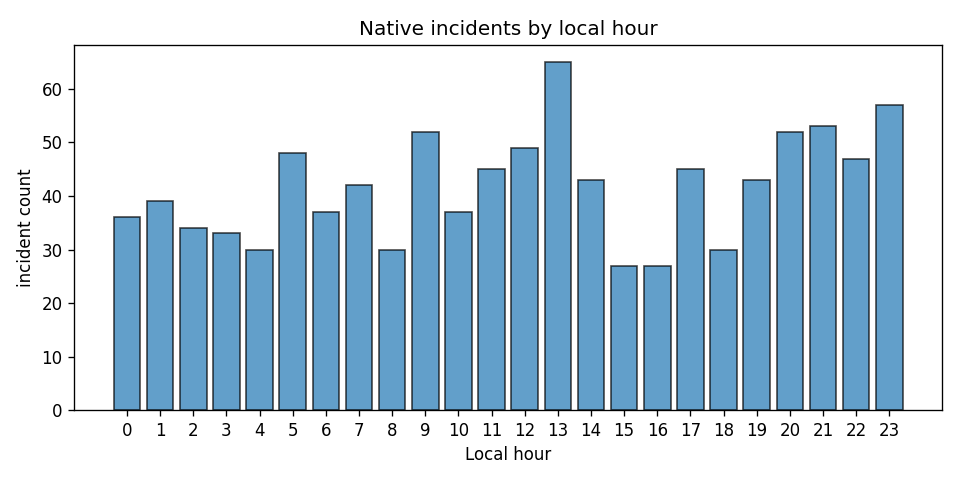
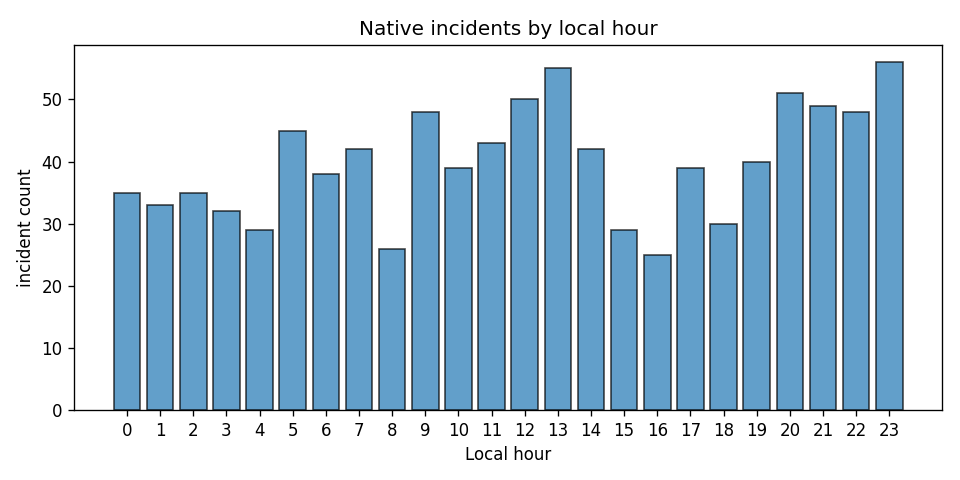
Restore rain hazard floor

diff --git a/scripts/evaluate.py b/scripts/evaluate.py
@@ -770,13 +770,14 @@ def calibration_changes_table() -> str:
         "empirical pressure-fall percentile over replay history rather than a "
         "shared z gate. |",
         "| heavy_rain_burst | wet-hour p95/floor -> wet-hour 99.5th training "
-        "amount quantile; dry-hour hurdle unchanged | "
-        "Rain uses the upper tail of wet amounts only, not zero-dominated "
-        "precipitation residuals. |",
+        "amount quantile plus 10 mm hazard floor; dry-hour hurdle and 6h "
+        "accumulation anchor unchanged | Rain uses the upper tail of wet "
+        "amounts only, but flood-style bursts still need an absolute hazard "
+        "floor when the city wet-hour distribution is compressed. |",
         "| wind_gust_burst | fixed gust z 3.2 -> wind-gust residual 99.5th "
         "training quantile; 90 km/h anchor unchanged | "
-        "Gusts are upper-tail hazards, so the gate is metric-specific and "
-        "one-sided. |",
+        "Gusts are upper-tail hazards, and the absolute ECCC-scale anchor "
+        "still fires even when local z is below the empirical quantile. |",
         "| heat_stress | unchanged in DS-2 | This detector is formula-threshold based, not a "
         "`z_hod >= 3` gate. |",
         "| cold_stress | unchanged in DS-2 | This detector is formula-threshold based, not a "
@@ -919,6 +920,41 @@ def _climatology_training_summary() -> str:
     return f"{source}, trained on {start}..{end}"
 
 
+def _empirical_threshold_summary() -> str:
+    try:
+        artifact = json.loads(CLIMATOLOGY_PATH.read_text())
+    except (OSError, json.JSONDecodeError):
+        return "training threshold contrast unavailable"
+    metrics = artifact.get("empirical_thresholds", {}).get("metrics", {})
+    if not isinstance(metrics, dict):
+        return "training threshold contrast unavailable"
+
+    temperature = metrics.get("temperature_2m", {})
+    gust = metrics.get("wind_gusts_10m", {})
+    rain = metrics.get("precipitation", {})
+    temp_upper = _threshold_value(temperature, "upper_z")
+    temp_lower = _threshold_value(temperature, "lower_z")
+    gust_upper = _threshold_value(gust, "upper_z")
+    rain_amount = _threshold_value(rain, "wet_amount_mm")
+    if None in (temp_upper, temp_lower, gust_upper, rain_amount):
+        return "training threshold contrast unavailable"
+
+    return (
+        "Per-metric z-equivalent thresholds expose why the uniform z=3 gate was "
+        f"too blunt: temperature tails are {temp_upper:.2f}/{temp_lower:.2f} z, "
+        f"while gusts require {gust_upper:.2f} z. Rain's wet-hour 99.5th "
+        f"percentile is {rain_amount:.1f} mm/h, below the 10 mm hazard floor, "
+        "so the hazard detector gates on the stricter floor."
+    )
+
+
+def _threshold_value(stats: object, key: str) -> float | None:
+    if not isinstance(stats, dict):
+        return None
+    value = stats.get(key)
+    return None if value is None else float(value)
+
+
 def _native_interpretation(replay: NativeReplay) -> str:
     counts = Counter(event.event_type for event in replay.incidents)
     total = len(replay.incidents)
@@ -993,6 +1029,7 @@ def write_evaluation(
   from that same committed artifact: 99.5th percentile upper tails, 0.5th
   percentile lower tails, and wet-hour-only 99.5th percentile rain amount.
   The quantile level is a fixed rare-tail hypothesis, not tuned to replay rates.
+- {_empirical_threshold_summary()}
 - Readings replayed: **{data.total_readings}** across **{data.total_city_days}**
   city-days.
 - Native replay collapses detector candidates with the same stable dedupe keys,

diff --git a/app/detection/heavy_rain_burst.py b/app/detection/heavy_rain_burst.py
@@ -37,7 +37,10 @@ class HeavyRainBurstDetector:
         if not precip.is_wet:
             return []
 
-        hourly_threshold, threshold_source = _hourly_threshold(climatology, precip)
+        hourly_threshold, wet_quantile, threshold_source = _hourly_threshold(
+            climatology,
+            precip,
+        )
         if hourly_threshold is None:
             return []
 
@@ -55,7 +58,8 @@ class HeavyRainBurstDetector:
             "wet_hour_p95_mm": None
             if precip.wet_amount_percentiles.get(95) is None
             else round(precip.wet_amount_percentiles[95], 3),
-            "wet_hour_quantile_mm": round(hourly_threshold, 3),
+            "wet_hour_quantile_mm": None if wet_quantile is None else round(wet_quantile, 3),
+            "absolute_hazard_floor_mm": MIN_HEAVY_RAIN_MM,
             "threshold_mm": round(hourly_threshold, 3),
             "threshold_source": threshold_source,
             "threshold_quantile": climatology.empirical_upper_quantile,
@@ -109,13 +113,17 @@ def _recent_accumulation_mm(ctx: DetectorContext) -> float:
     return total
 
 
-def _hourly_threshold(climatology, precip) -> tuple[float | None, str]:
+def _hourly_threshold(climatology, precip) -> tuple[float | None, float | None, str]:
     if USE_EMPIRICAL_QUANTILE_GATES:
         threshold = climatology.empirical_wet_amount_threshold()
         if threshold is not None:
-            return threshold, "training_wet_hour_upper_quantile"
+            return (
+                max(threshold, MIN_HEAVY_RAIN_MM),
+                threshold,
+                "training_wet_hour_upper_quantile_with_hazard_floor",
+            )
     p95 = precip.wet_amount_percentiles.get(95)
     if p95 is None:
-        return None, "missing_wet_percentile"
+        return None, None, "missing_wet_percentile"
     source = "fixed_wet_p95_floor" if not USE_EMPIRICAL_QUANTILE_GATES else "fixed_wet_p95_fallback"
-    return max(p95, MIN_HEAVY_RAIN_MM), source
+    return max(p95, MIN_HEAVY_RAIN_MM), p95, source

diff --git a/tests/test_native_detectors.py b/tests/test_native_detectors.py
@@ -133,7 +133,11 @@ def test_heavy_rain_burst_fires_on_wet_hour_amount() -> None:
     assert events[0].event_type == "heavy_rain_burst"
     assert events[0].severity == "severe"
     assert events[0].signal_values["amount_mm"] == 12.0
+    assert events[0].signal_values["wet_hour_quantile_mm"] == 5.0
     assert events[0].signal_values["threshold_mm"] == 10.0
+    assert events[0].signal_values["threshold_source"] == (
+        "training_wet_hour_upper_quantile_with_hazard_floor"
+    )
 
 
 def test_heavy_rain_burst_fires_on_short_window_accumulation() -> None:
@@ -500,7 +504,7 @@ def _mini_climatology() -> dict:
                 },
                 "precipitation": {
                     "wet_count": 100,
-                    "wet_amount_mm": 10.0,
+                    "wet_amount_mm": 5.0,
                 },
             },
         },

diff --git a/EVALUATION.md b/EVALUATION.md
@@ -21,6 +21,7 @@
   from that same committed artifact: 99.5th percentile upper tails, 0.5th
   percentile lower tails, and wet-hour-only 99.5th percentile rain amount.
   The quantile level is a fixed rare-tail hypothesis, not tuned to replay rates.
+- Per-metric z-equivalent thresholds expose why the uniform z=3 gate was too blunt: temperature tails are 2.79/-2.94 z, while gusts require 4.06 z. Rain's wet-hour 99.5th percentile is 5.0 mm/h, below the 10 mm hazard floor, so the hazard detector gates on the stricter floor.
 - Readings replayed: **105192** across **4383**
   city-days.
 - Native replay collapses detector candidates with the same stable dedupe keys,
@@ -60,29 +61,29 @@
 | pressure_plunge | 52 | 88 | 0.49 | 0.012 | 1.69 |
 | warm_spell | 127 | 638 | 1.21 | 0.029 | 5.02 |
 | cold_spell | 77 | 486 | 0.73 | 0.018 | 6.31 |
-| heavy_rain_burst | 375 | 1688 | 3.56 | 0.086 | 4.50 |
+| heavy_rain_burst | 333 | 1607 | 3.17 | 0.076 | 4.83 |
 | wind_gust_burst | 132 | 430 | 1.25 | 0.030 | 3.26 |
 | heat_stress | 53 | 253 | 0.50 | 0.012 | 4.77 |
 | cold_stress | 70 | 516 | 0.67 | 0.016 | 7.37 |
 | forecast_bust | 0 | 0 | 0.00 | 0.000 | 0.00 |
 | spatial_anomaly | 85 | 276 | 0.81 | 0.019 | 3.25 |
-| OVERALL | 1001 | 4427 | 9.52 | 0.228 | 4.42 |
+| OVERALL | 959 | 4346 | 9.12 | 0.219 | 4.53 |
 
 Interpretation:
 
 - Heat/cold stress and warm/cold spell all remain measurable on the test replay: heat_stress 53, cold_stress 70, warm_spell 127, cold_spell 77.
 - Forecast-bust is zero in archive mode because the Open-Meteo archive has observations but not the forecasts issued at those historical times; it remains covered by unit and labeled tests and is active in live DB operation when stored forecasts exist.
 - Spatial anomaly compares each city in `z_hod` space against that city's own climatology first, then compares the standardized value to peers. A city must be anomalous in its own right and far from peer z-values; normal-for-Vancouver mildness beside normal-for-Ottawa cold is not an event.
-- Spatial anomaly is 85/1001 incidents (8.5%), so the structural own-anomaly gate remains visible in the rate mix.
+- Spatial anomaly is 85/959 incidents (8.9%), so the structural own-anomaly gate remains visible in the rate mix.
 - Spatial incidents use `city|spatial_anomaly|metric` as their dedupe key, with no timestamp component, so multi-hour contrasts collapse into one incident until lifecycle resolves them.
 
 ## Per-City Incident Rates
 
 | city | incidents | per_1k_readings | per_city_day |
 |---|---:|---:|---:|
-| Ottawa | 266 | 7.59 | 0.182 |
-| Toronto | 230 | 6.56 | 0.157 |
-| Vancouver | 505 | 14.40 | 0.346 |
+| Ottawa | 247 | 7.04 | 0.169 |
+| Toronto | 214 | 6.10 | 0.146 |
+| Vancouver | 498 | 14.20 | 0.341 |
 
 ## Severity Breakdown
 
@@ -92,7 +93,7 @@ Interpretation:
 | pressure_plunge | 0 | 41 | 11 |
 | warm_spell | 0 | 108 | 19 |
 | cold_spell | 0 | 61 | 16 |
-| heavy_rain_burst | 0 | 42 | 333 |
+| heavy_rain_burst | 0 | 0 | 333 |
 | wind_gust_burst | 0 | 132 | 0 |
 | heat_stress | 0 | 44 | 9 |
 | cold_stress | 0 | 69 | 1 |
@@ -107,7 +108,7 @@ Interpretation:
 | pressure_plunge | 52 | 0.012 | 52 | 0.012 |
 | warm_spell | 101 | 0.023 | 127 | 0.029 |
 | cold_spell | 71 | 0.016 | 77 | 0.018 |
-| heavy_rain_burst | 333 | 0.076 | 375 | 0.086 |
+| heavy_rain_burst | 333 | 0.076 | 333 | 0.076 |
 | wind_gust_burst | 334 | 0.076 | 132 | 0.030 |
 | heat_stress | 53 | 0.012 | 53 | 0.012 |
 | cold_stress | 70 | 0.016 | 70 | 0.016 |
@@ -126,7 +127,7 @@ Interpretation:
 | wmo_transition | supporting evidence only | 167 | 0 |
 | fun_fact | retired from primary feed | 6383 | 0 |
 | *(none)* | pressure_plunge | 0 | 52 |
-| *(none)* | heavy_rain_burst | 0 | 375 |
+| *(none)* | heavy_rain_burst | 0 | 333 |
 | *(none)* | wind_gust_burst | 0 | 132 |
 
 ## Known-Event Spot Checks
@@ -135,7 +136,7 @@ Interpretation:
 |---|---|---|---:|---|---|
 | Toronto heavy rainfall/flooding | 2024-07-16 | heavy_rain_burst at 2024-07-16 17:00 UTC | 67.0 | severe; 6h accumulation trigger reached 11.0 mm in archive data | [City reported more than 100 mm in pockets across Toronto.](https://www.toronto.ca/news/city-of-toronto-provides-an-update-on-response-efforts-following-heavy-rainfall/) |
 | Vancouver January deep freeze | 2024-01-12 | cold_spell at 2024-01-11 21:00 UTC | 70.0 | severe; Jan 12 candidates reached z=4.2 to z=7.1 | [ECCC noted wind chills reaching Vancouver's waterfront.](https://www.canada.ca/en/environment-climate-change/services/ten-most-impactful-weather-stories/2024.html) |
-| Ottawa severe thunderstorm/outages | 2023-06-26 | heavy_rain_burst at 2023-06-27 01:00 UTC | 66.2 | severe; 6h accumulation trigger reached 10.6 mm in archive data | [Thousands lost power; ECCC warned of downpours, hail, wind.](https://ottawa.citynews.ca/2023/06/26/environment-canada-issues-severe-thunderstorm-warning-for-ottawa/) |
+| Ottawa severe thunderstorm/outages | 2023-06-26 | heavy_rain_burst at 2023-06-27 02:00 UTC | 66.2 | severe; 6h accumulation trigger reached 10.6 mm in archive data | [Thousands lost power; ECCC warned of downpours, hail, wind.](https://ottawa.citynews.ca/2023/06/26/environment-canada-issues-severe-thunderstorm-warning-for-ottawa/) |
 
 ## Calibration Changes Applied
 
@@ -144,8 +145,8 @@ Interpretation:
 | temperature_shock | fixed `abs(z_hod) >= 3.0` -> temperature residual 99.5/0.5 training quantiles; delta remains 5C | The same rare-tail concept is now read from temperature's own training residual distribution. |
 | warm/cold spell | fixed `z_hod` +/-3.0 -> temperature residual 99.5/0.5 training quantiles | Warm and cold persistence gates use separate signed tails instead of assuming symmetric z behavior. |
 | pressure_plunge | unchanged in DS-2 | It already uses an empirical pressure-fall percentile over replay history rather than a shared z gate. |
-| heavy_rain_burst | wet-hour p95/floor -> wet-hour 99.5th training amount quantile; dry-hour hurdle unchanged | Rain uses the upper tail of wet amounts only, not zero-dominated precipitation residuals. |
-| wind_gust_burst | fixed gust z 3.2 -> wind-gust residual 99.5th training quantile; 90 km/h anchor unchanged | Gusts are upper-tail hazards, so the gate is metric-specific and one-sided. |
+| heavy_rain_burst | wet-hour p95/floor -> wet-hour 99.5th training amount quantile plus 10 mm hazard floor; dry-hour hurdle and 6h accumulation anchor unchanged | Rain uses the upper tail of wet amounts only, but flood-style bursts still need an absolute hazard floor when the city wet-hour distribution is compressed. |
+| wind_gust_burst | fixed gust z 3.2 -> wind-gust residual 99.5th training quantile; 90 km/h anchor unchanged | Gusts are upper-tail hazards, and the absolute ECCC-scale anchor still fires even when local z is below the empirical quantile. |
 | heat_stress | unchanged in DS-2 | This detector is formula-threshold based, not a `z_hod >= 3` gate. |
 | cold_stress | unchanged in DS-2 | This detector is formula-threshold based, not a `z_hod >= 3` gate. |
 | forecast_bust | unchanged in DS-2 | Archive replay still lacks historical forecast pairs. |

diff --git a/README.md b/README.md
@@ -175,7 +175,9 @@ lifecycle/scoring fields are additive.
         "amount_mm": 4.4,
         "accumulation_mm": 11.0,
         "wet_hour_quantile_mm": 5.0,
-        "threshold_source": "training_wet_hour_upper_quantile"
+        "absolute_hazard_floor_mm": 10.0,
+        "threshold_mm": 10.0,
+        "threshold_source": "training_wet_hour_upper_quantile_with_hazard_floor"
       },
       "reason": "Toronto's rain accumulation reached 11.0 mm over 6h during a wet hour.",
       "supporting_reading_ids": [101, 102, 103],
@@ -216,8 +218,8 @@ spatial separation, and confidence. `priority_score` is a weighted 0-100 value, 
 | `pressure_plunge` | Pressure falls that often precede stormy conditions. | 3-hour sea-level pressure fall, checked against local pressure behavior and confirmed by wind/gust rise. | At least a 6 hPa fall plus wind corroboration. Replay showed weaker falls were ordinary weather noise, so the threshold keeps only sharper, compound signals. |
 | `warm_spell` | Persistent locally extreme warmth. | Temperature `z_hod` above the local-hour climatology, collapsed by lifecycle hysteresis. | Temperature residual above the empirical 99.5th training tail (`+2.79 z`). This replaces spammy `sustained_extreme`; in the 2022-2025 test replay, 67,513 old raw firings became 204 warm/cold spell incidents. |
 | `cold_spell` | Persistent locally extreme cold. | Temperature `z_hod` below the local-hour climatology, collapsed by lifecycle hysteresis. | Temperature residual below the empirical 0.5th training tail (`-2.94 z`). The same rare-tail spell hypothesis as warm spells, with score magnitude lifting extreme cold outbreaks to severe. |
-| `heavy_rain_burst` | Flash-flood style rain bursts and short accumulations. | Current hour must be wet; compare wet-hour amount and 6-hour accumulation against wet-hour-only baselines. | Wet current hour, hourly amount above the training wet-hour 99.5th percentile (`5.0 mm` in the artifact), or 6-hour accumulation at least `max(wet-tail threshold, 10 mm)`. The wet/dry split avoids zero-dominated medians; the quantile is fixed before replay, not tuned to hit a rate. |
-| `wind_gust_burst` | Locally unusual gusts with operational damage potential. | `wind_gusts_10m` anomaly against local-hour climatology, with an ECCC-scale absolute gust anchor. | Gust residual above the empirical 99.5th training tail (`+4.06 z`) or gust around 90 km/h. Gusts are one-sided upper-tail hazards. |
+| `heavy_rain_burst` | Flash-flood style rain bursts and short accumulations. | Current hour must be wet; compare wet-hour amount and 6-hour accumulation against wet-hour-only baselines. | Wet current hour, hourly amount at least `max(training wet-hour 99.5th percentile, 10 mm)` or 6-hour accumulation at least the same 10 mm anchor. The artifact's wet-hour 99.5th percentile is only `5.0 mm`, so the absolute hazard floor prevents compressed wet-hour distributions from turning moderate rain into flood-style incidents. |
+| `wind_gust_burst` | Locally unusual gusts with operational damage potential. | `wind_gusts_10m` anomaly against local-hour climatology, with an ECCC-scale absolute gust anchor. | Gust residual above the empirical 99.5th training tail (`+4.06 z`) or gust around 90 km/h. The ECCC-scale absolute anchor remains an OR gate so dangerous gusts fire regardless of local z. |
 | `heat_stress` | Dangerous heat load from temperature plus moisture. | Humidex from temperature and dew point. | Humidex `>= 38`, with Humidex 40 as a strong anchor. Full-season replay produced non-trivial but not constant summer incidents. |
 | `cold_stress` | Dangerous wind chill from cold plus wind. | Wind Chill Index from temperature and wind speed. | Wind chill `<= -25` with valid cold/wind inputs. City-center archive data made `-30` effectively dead, so `-25` keeps real winter stress visible. |
 | `forecast_bust` | A live forecast miss large enough to matter operationally. | `abs(observed - stored_forecast) / max(global rolling MAE, metric_floor)`. | Normalized error `>= 2.5` with at least 3 recent obs/forecast comparison pairs. Archive replay has no historical forecast pairs, so this is exercised by unit/labeled tests and live DB operation. |
@@ -236,7 +238,12 @@ supporting evidence where useful instead of a spammy feed item.
   city's timezone, avoiding UTC-smearing of the diurnal cycle.
 - **Empirical tail gates**: z-scores remain diagnostic, but z-gated detectors enter on
   per-metric training quantiles. The shared `z=3` rule is retired because each metric's
-  residual distribution has its own asymmetry and tail width.
+  residual distribution has its own asymmetry and tail width: the current training artifact
+  puts temperature tails near `+2.79/-2.94 z`, while gusts require `+4.06 z`.
+- **Anomaly vs hazard floors**: pure anomaly detectors (`temperature_shock`, spells, spatial)
+  use distributional quantiles only. Hazard detectors keep absolute operational floors as
+  well, for example `heavy_rain_burst` uses `max(wet-hour quantile, 10 mm)` and
+  `wind_gust_burst` keeps the 90 km/h ECCC-scale anchor.
 - **Precip occurrence vs amount**: dry hours are modeled separately from wet-hour amount
   percentiles, so heavy rain is not compared to a zero-dominated median.
 - **Lifecycle hysteresis**: incidents open after enter criteria and resolve only after clear
@@ -265,9 +272,9 @@ read from the training artifact only: upper 99.5th tails, lower 0.5th tails, and
 hit an event-rate target.
 
 - Legacy raw detector firings: **127,164**
-- Native lifecycle incidents: **1,001**
-- Overall rate: **0.228 incidents/city-day**
-- Raw-firing to incident collapse ratio: **4.42x** on native candidates
+- Native lifecycle incidents: **959**
+- Overall rate: **0.219 incidents/city-day**
+- Raw-firing to incident collapse ratio: **4.53x** on native candidates
 - `sustained_extreme` replacement: **67,513 raw firings -> 204 spell incidents**
 
 Per-type after-state:
@@ -278,7 +285,7 @@ Per-type after-state:
 | `pressure_plunge` | 52 | 0.012 |
 | `warm_spell` | 127 | 0.029 |
 | `cold_spell` | 77 | 0.018 |
-| `heavy_rain_burst` | 375 | 0.086 |
+| `heavy_rain_burst` | 333 | 0.076 |
 | `wind_gust_burst` | 132 | 0.030 |
 | `heat_stress` | 53 | 0.012 |
 | `cold_stress` | 70 | 0.016 |